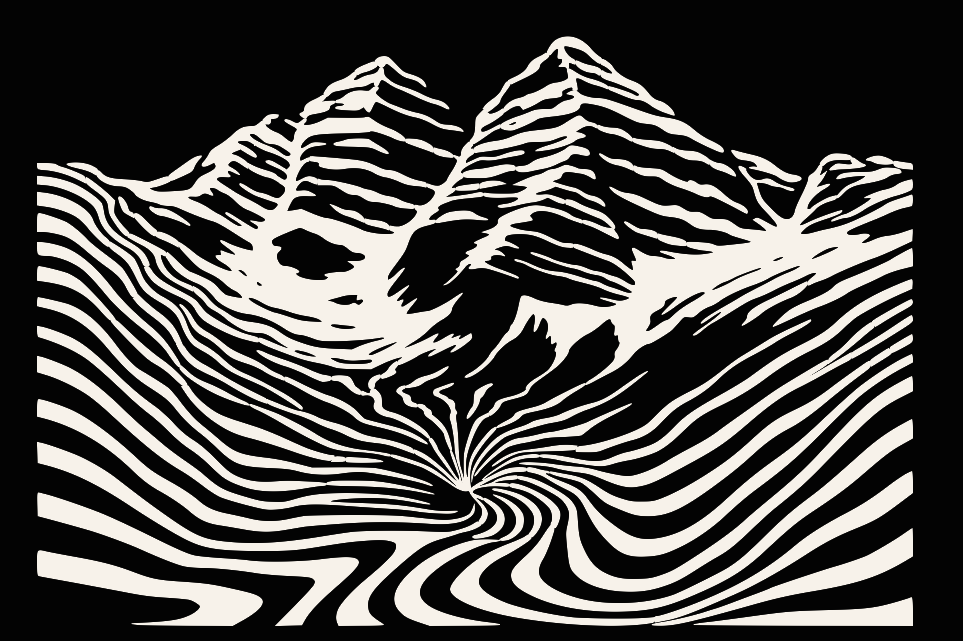
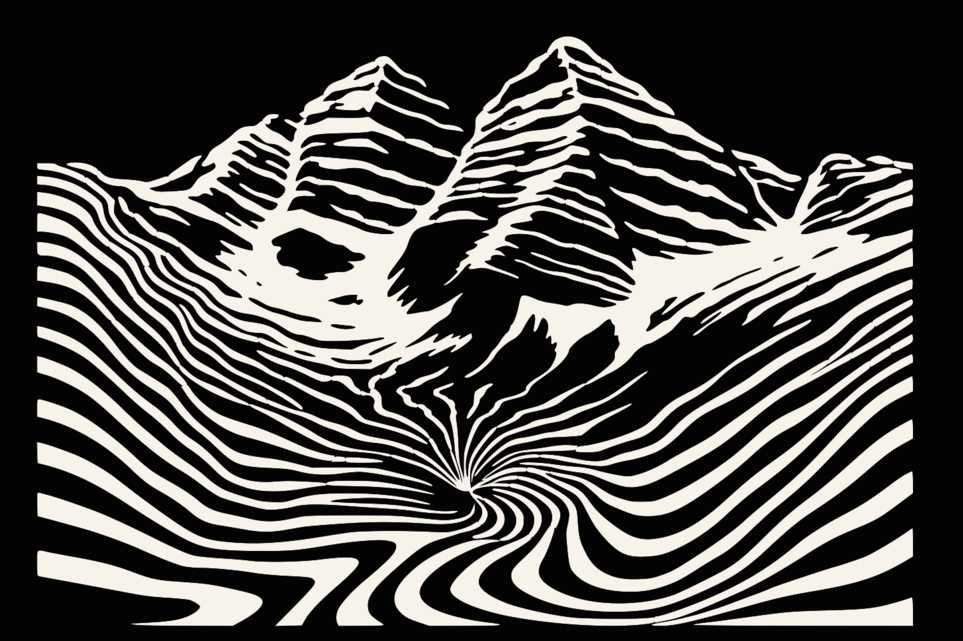
fix seamed images

diff --git a/src/components/LayeredLogo.tsx b/src/components/LayeredLogo.tsx
@@ -251,7 +251,7 @@ export function LayeredLogo({ isPlaying = true }: LayeredLogoProps) {
       gl.texImage2D(gl.TEXTURE_2D, 0, gl.RGBA, gl.RGBA, gl.UNSIGNED_BYTE, image)
       animationFrame = requestAnimationFrame(render)
     }
-    image.src = '/[email redacted]'
+    image.src = '/[email redacted]'
 
     return () => {
       disposed = true